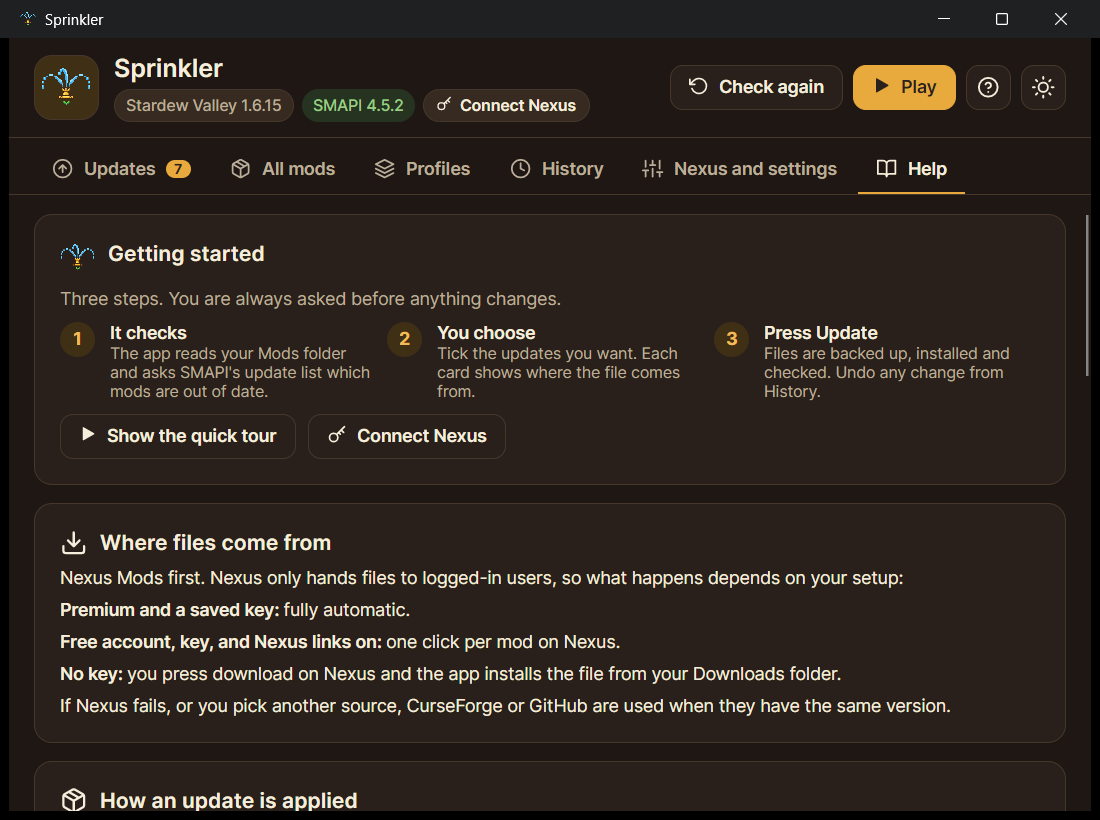
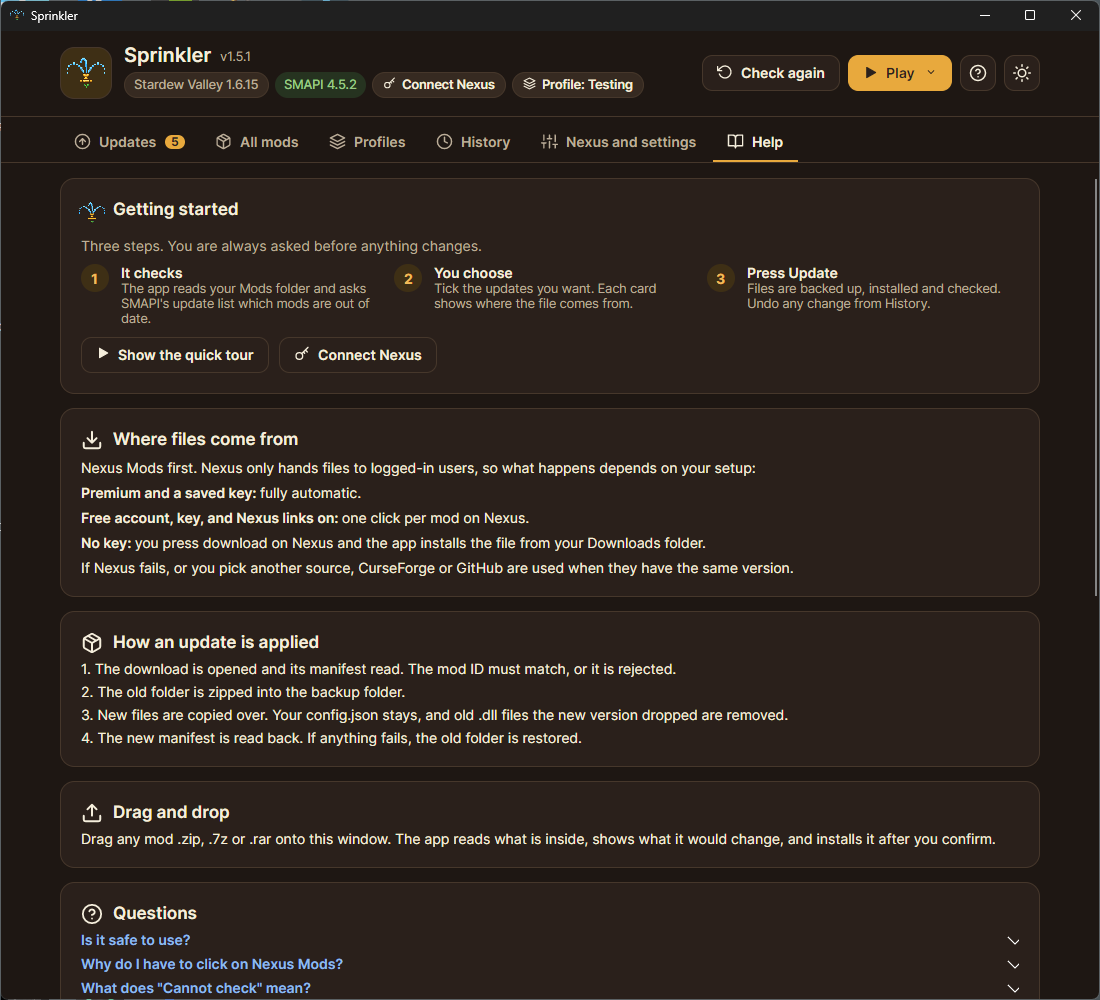
Prepare version 1.5.1

Changed region(s): [[0.0, 0.0, 1.0, 1.0], [0.68, 0.2439, 0.8964, 0.3354], [0.8964, 0.0, 0.9273, 0.0305]]

diff --git a/CHANGELOG.md b/CHANGELOG.md
@@ -2,6 +2,18 @@
 
 All notable changes are listed here. The project follows [Semantic Versioning](https://semver.org).
 
+## 1.5.1 (2026-11-22)
+
+### Added
+
+- The version number sits beside the name at the top of the window.
+
+### Fixed
+
+- A mod skipped through SMAPI's own settings said "Skipped by you" on All mods. It now says "Skipped by SMAPI".
+- Settings showed three gold buttons at once, and every saved profile had a gold "Switch to it" beside the gold Play. Gold now marks one main action per screen: Connect on Nexus and settings, and Play in the header.
+- The arrow of "About this list" on All mods sat at the far right, next to "Group content packs under their mod", and looked like part of it. It now sits beside its own words.
+
 ## 1.5.0 (2026-11-22)
 
 ### Added
